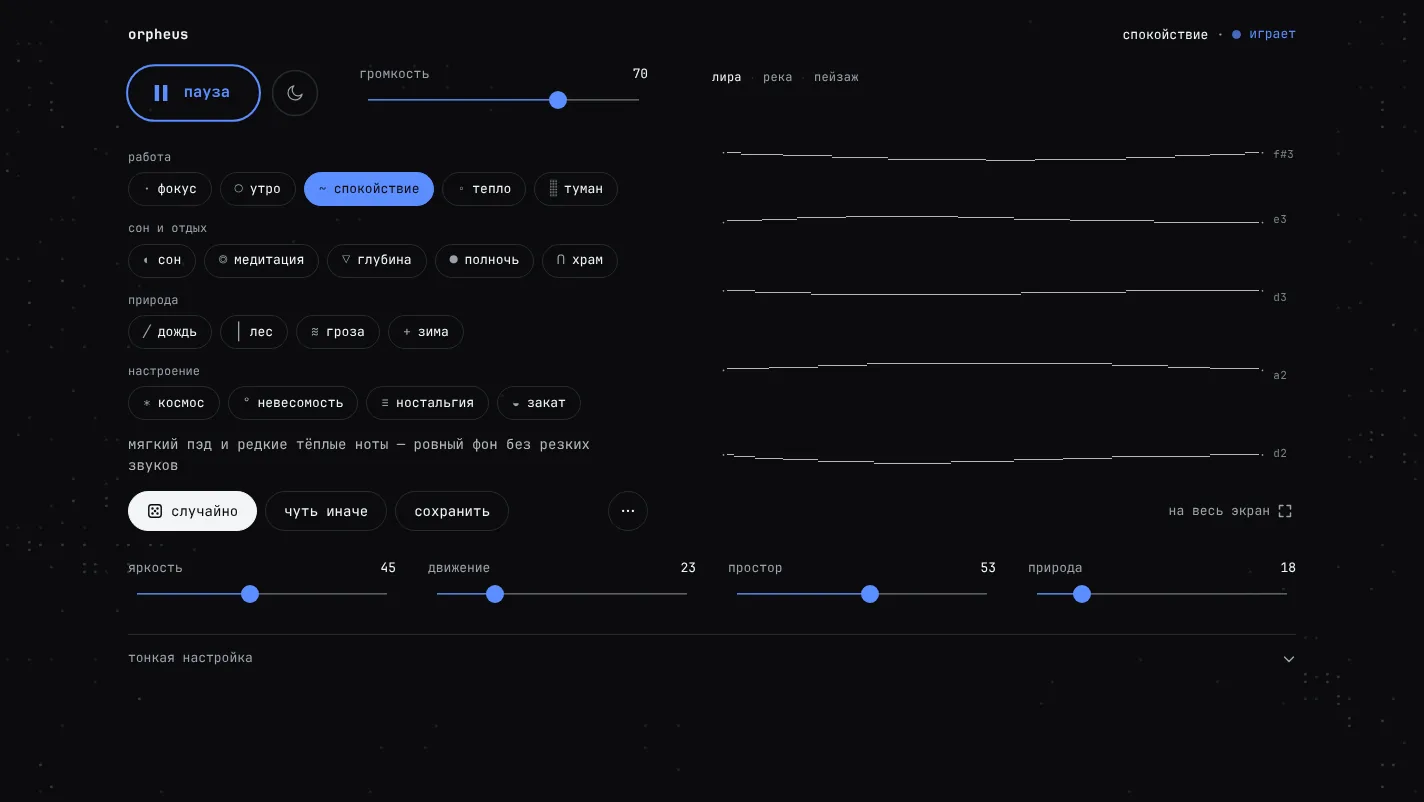
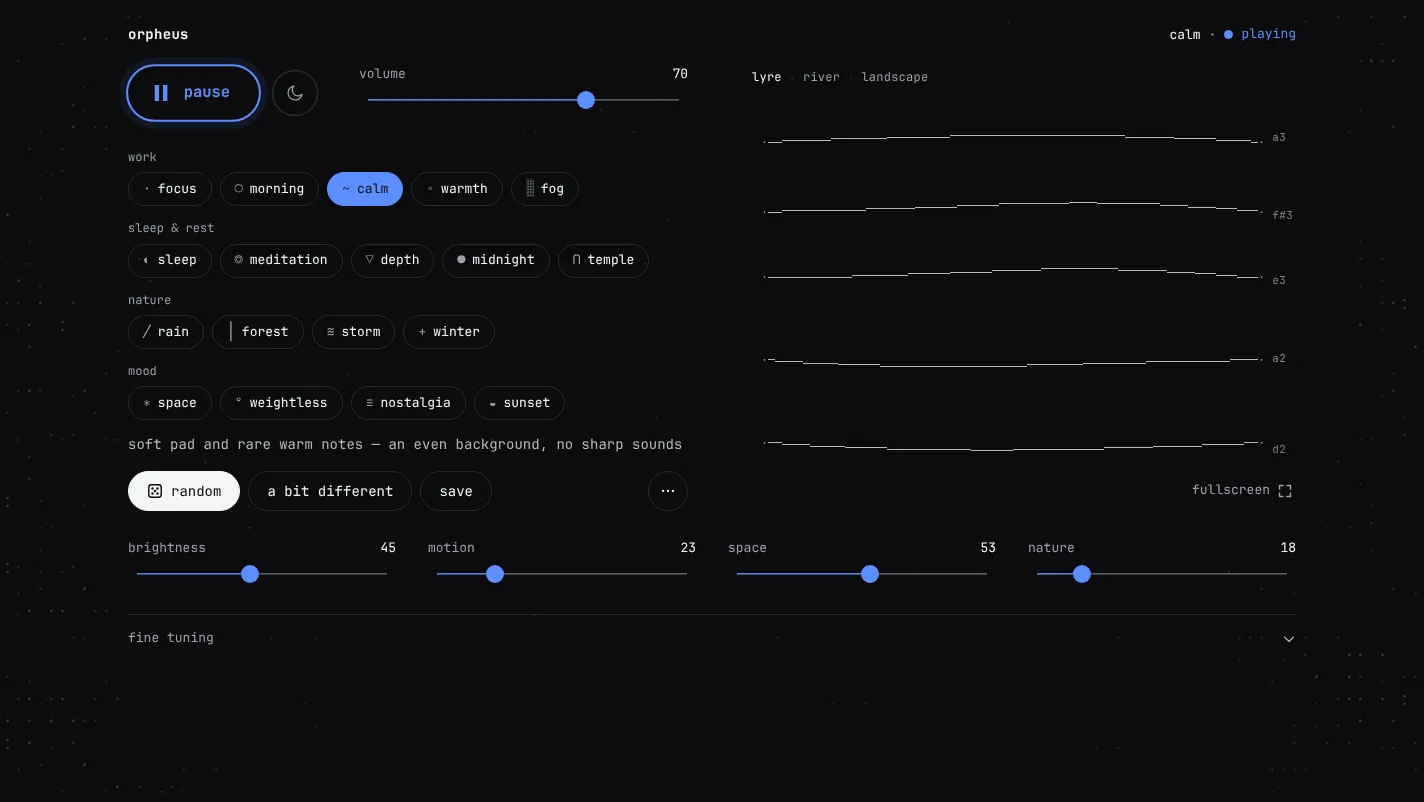
orpheus: english interface, updated card and screenshot
Claude-Session: https://claude.ai/code/session_018zTUUP8Uh8zGG96HdvhLft

diff --git a/index.html b/index.html
@@ -230,14 +230,14 @@ omarchy theme set mono</pre>
     <p class="tagline">endless generative ambient in the browser.</p>
     <figure class="win">
       <figcaption><span>orpheus</span><span>the lyre plays along</span></figcaption>
-      <img class="shot" src="orpheus.webp" width="1424" height="802" loading="lazy" decoding="async" alt="orpheus in dark mode: a play button, mood presets grouped by purpose, four big knobs and an ascii lyre whose strings follow the chord that is playing">
+      <img class="shot" src="orpheus.webp?v=2" width="1424" height="802" loading="lazy" decoding="async" alt="orpheus in dark mode: a play button, mood presets grouped by purpose, four big knobs and an ascii lyre whose strings follow the chord that is playing">
     </figure>
     <ul>
       <li>a pad, sparse notes, noise and rain, all synthesized live with web audio. no samples, no loops, never the same twice.</li>
       <li>eighteen moods for focus, sleep and rest, four big knobs, and every parameter one click away.</li>
       <li>slow harmony, an open low register, a soft top end: easy to ignore, easy to listen to.</li>
       <li>an ascii lyre that plays along, a scrolling score, a landscape for each mood. a sleep timer fades the sound and the screen together.</li>
-      <li>the interface is in russian. everything runs in your browser; nothing is sent anywhere.</li>
+      <li>everything runs in your browser; nothing is sent anywhere.</li>
     </ul>
     <p class="meta"><span>html · js · web audio</span><span><a href="orpheus/">open</a></span></p>
   </article>

diff --git a/orpheus/schema.js b/orpheus/schema.js
@@ -52,7 +52,7 @@ window.AMBIENT_SCHEMA = {
     { id: 'tape',     group: 'char', type: 'slider', label: 'tape',    def: 0.15, hint: 'pitch wobble like an old cassette (slow wow + light flutter)' },
     { id: 'warmth',   group: 'char', type: 'slider', label: 'warmth',  def: 0.2,  hint: 'soft tube saturation and a rounded top end' },
     { id: 'binaural', group: 'char', type: 'slider', label: 'beats',   def: 0.0, rare: true, hint: 'binaural beats, audible only on headphones: two quiet tones with a slight frequency difference in the left and right ear' },
-    { id: 'beatRate', group: 'char', type: 'slider', label: 'beat rate', def: 0.3, hint: '0 — 1 hz (deep sleep), 0.3 — ~4 hz (drowsiness, meditation), 0.6 — ~9 hz (calm attention), 1 — 16 hz (focus)' },
+    { id: 'beatRate', group: 'char', type: 'slider', label: 'beat rate', def: 0.3, hint: 'difference between the ears: 0 — 1 hz, 0.3 — ~4 hz, 0.6 — ~9 hz, 1 — 16 hz. effects on the mind are not well proven' },
 
     // вне групп, показывается в шапке
     { id: 'volume', group: null, type: 'slider', label: 'volume', def: 0.7 }

diff --git a/orpheus/stage.js b/orpheus/stage.js
@@ -74,7 +74,7 @@
   // ================================================================ глифы
 
   var CHARS = ' .·:-=+*#%@,\'`~^_|/\\()<>oO°•∙x─│╱╲┼═║┃╎¦≈∗╭╮╰╯┌┐└┘├┤┬┴▁▂▃▄▅▆▇█░▒▓▲△∧∩▪▫◦v' +
-    'абвгдежзийклмнопрстуфхцчшщъыьэюя' + 'abcdefghijklmnopqrstuvwxyz0123456789−';
+    'abcdefghijklmnopqrstuvwxyz0123456789−';
   var GL = [];
   (function () { var seen = {}; for (var i = 0; i < CHARS.length; i++) { var c = CHARS[i]; if (!seen[c]) { seen[c] = 1; GL.push(c); } } })();
   var NGF = GL.length;

diff --git a/orpheus/index.html b/orpheus/index.html
@@ -415,7 +415,7 @@ input[type="range"]:focus-visible::-moz-range-thumb { box-shadow: 0 0 0 3px var(
 @media (min-width: 1000px) {
   .wrap {
     max-width: 1200px; display: grid; column-gap: 64px; align-items: start;
-    grid-template-columns: minmax(0, 520px) minmax(0, 1fr);
+    grid-template-columns: minmax(0, 560px) minmax(0, 1fr);
     grid-template-areas: "top top" "tr st" "pre st" "pre vb" "mac mac" "fh fh" "fi fi";
     grid-template-rows: auto auto 1fr auto;
   }
